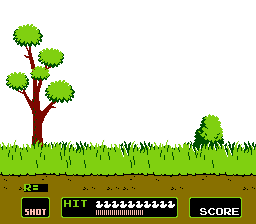
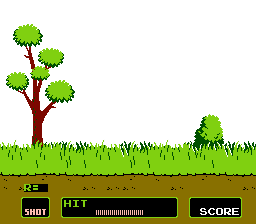
Added stuff

Changed region(s): [[0.375, 0.875, 0.6875, 0.9375]]

diff --git a/m2.py b/m2.py
@@ -32,7 +32,7 @@ shoot = pygame.mixer.Sound("gunShot.wav")
 class Game:
     def __init__(self):
         self.state = 0
-        self.roundNum = 1
+        self.roundNum = 0
         self.roundDiff = 1
 
 # Definir o jogo como uma classe
@@ -45,8 +45,6 @@ class Round:
         self.curFrame = 0
         self.dogpos = 800
         self.rScore = 0
-        self.ammo = 3
-        self.subrnd = 0
     
     def roundStart(self, dif, ducknum, gm):
         self.curFrame = 0
@@ -56,11 +54,10 @@ class Round:
         self.scene = []
         self.ducks = ducknum
         self.rScore = 0
-        self.ammo = 3
 
         self.dogpos = 800
 
-        #gm.roundNum += 1
+        gm.roundNum += 1
 
         #UwUUwUUwUUwUUwUUwUUwUUwUUwUUwUUwUUwUUwUUwUUwUUwUUwUUwUUwUUwUUwUUwUUwUUwUUwUUwUUwUUwUUwUUwUUwUUwU
         
@@ -73,12 +70,8 @@ class Round:
         #UwUUwUUwU
         val = True
         for i in self.scene:
-            if i.state != 1:
+            if i.state == 0:
                 val = False
-                print(self.subrnd)
-        
-        if self.ammo <= 0:
-            val = True
         
         if val == True:
             self.roundEnd()
@@ -86,30 +79,22 @@ class Round:
     def roundEnd(self):
         global score
         global win
-        global screen
-        global miniDDisplay
 
         if self.state != 2:
             self.curFrame = 0
             if self.rScore != 0:
                 win.play()
-                print(self.subrnd)
-                miniDDisplay[self.subrnd].state = 1
             else:
                 lose.play()
-            self.subrnd += 1
-            if self.subrnd >= 10:
-                gm.roundNum += 1
-                self.subrnd = 0
-        # print(self.dogpos, self.curFrame)
+        print(self.dogpos, self.curFrame)
 
         if self.rScore > 0:
             screen.blit(dog.image[0][0], (self.scene[-1].x, self.dogpos))
         else:
-            screen.blit(dog.image[1][0], (screen.get_width() / 2 - 100, self.dogpos))
+            screen.blit(dog.image[1][0], (90, self.dogpos))
 
         if self.curFrame <= 100:
-            # print("yes")
+            print("yes")
             if self.dogpos >= 580:
                 self.dogpos -= 5
             else:
@@ -156,7 +141,7 @@ class Object:
 
     def changeState(self, state):
         self.state = state
-        self.conta = 0
+
 
 def countdown(t): 
     t = 1
@@ -191,22 +176,16 @@ r1 = Round()
 duck1 = sprite(100, 100)
 duck1.load(["d11.png", "d12.png", "d13.png"])
 duck1.load(["d1Hit.png"])
-duck1.load(["d1s.png"])
+duck1.load(["d1Hit.png"])
 
 duck2 = sprite(100, 100)
 duck2.load(["d21.png", "d22.png", "d23.png"])
 duck2.load(["d2Hit.png"])
-duck2.load(["d2s.png"])
+duck2.load(["d2Hit.png"])
 
 duck3 = sprite(100, 100)
 duck3.load(["d31.png", "d32.png", "d33.png"])
 duck3.load(["d3Hit.png"])
-duck3.load(["d3s.png"])
-
-S = sprite(100, 100)
-S.load(["spam1.png", "spam2.png"])
-S.load(["spam1.png", "spam2.png"])
-S.load(["spam1.png", "spam2.png"])
 
 cursor = sprite(100, 100)
 cursor.load(["cursor.png"])
@@ -214,17 +193,6 @@ cursor.load(["cursor.png"])
 dog = sprite(200, 200)
 dog.load(["dog1.png"])
 dog.load(["dogL1.png", "dogL2.png"])
-
-miniD = sprite(30, 30)
-miniD.load(["miniD1.png"])
-miniD.load(["miniD2.png"])
-
-
-miniDDisplay = []
-
-for i in range(0, 10):
-    miniObj = Object(miniD.image, 0, 0, miniD.width, miniD.height, 10, 0)
-    miniDDisplay.append(miniObj)
 
 background1 = sprite(screen.get_width(), screen.get_height())
 background1.load(["back1.png"])
@@ -243,9 +211,9 @@ def spawnDuckie(scene):
     if special == 15:
         temp = Object(duck2.image, 0, 0, duck2.width, duck2.height, 10, 2)
     elif special == 14:
-        temp = Object(S.image, 0, 0, S.width, S.height, 10, 2)
+        temp = Object(duck2.image, 0, 0, duck2.width, duck2.height, 10, 2)
     elif special == 20:
-        temp = Object(duck3.image, 0, 0, duck3.width, duck3.height, 10, 3)
+        temp = Object(duck3.image, 0, 0, duck3.width, duck3.height, 10, 2)
     elif special == 19:
         temp = Object(duck3.image, 0, 0, duck3.width, duck3.height, 10, 2)
     elif special == 18:
@@ -307,7 +275,7 @@ def checkMouse():
                 if mousePos[0] > i.x and mousePos[0] < i.x + i.width:
                     if mousePos[1] > i.y and mousePos[1] < i.y + i.height:
                         # Matar o pato
-                        i.changeState(2)
+                        i.changeState(1)
                         # i.alive = False
                         if i.id == 2:
                             score += 2
@@ -331,15 +299,15 @@ res = 0
 def physicz():
     #UwU
     global r1
+    global patosm
     global res
 
     for i in r1.scene:
 #UwU
         if i.y  < 100:
             i.conta = 51
-        if i.y > 600:
+        if i.y > 1000:
             i.y = i.y - 3               
-        print(i.conta, i.y)
         
         if i.conta == 33:
             i.speed = randint(2, 3)
@@ -351,16 +319,19 @@ def physicz():
             # if i.id == 2:
 
             if i.conta > 50:
-                if i.id == 2:
-                    i.x += randint(6,7)
-                i.x += randint(3, 4)
-                if i.id == 3:
-                    i.x += randint(10,11)
-
-                if i.id == 1:
-                    i.y += randint (2, 3)
-                else:
-                    i.y += randint (2, 3)
+                if patosm > 0:
+                    if i.id == 2:
+                        i.x += randint(10,11)
+                    i.x += randint(3, 4)
+                    if i.id == 3:
+                         i.x += randint(16,17)
+                    if i.id == 1:
+                        i.y -= randint (2, 3)
+                    else:
+                        i.y += randint (2, 3)
+                        patosm = patosm +1
+                    if patosm == 40:
+                        patosm = 0
                     
                 if i.id == 2:
                     i.x += i.speed
@@ -372,11 +343,15 @@ def physicz():
                     i.x += i.speed
                     i.y += 3
             else:
-                i.x += randint(3, 4)
-                if a == 1:
-                    i.y -= randint (2, 3)
-                else:
-                    i.y += randint (2, 3)
+                if patosm > 0:
+                    i.x += randint(3, 4)
+                    if a == 1:
+                        i.y -= randint (2, 3)
+                    else:
+                        i.y += randint (2, 3)
+                        patosm = patosm +1
+                    if patosm >= 40:
+                        patosm = 0
                 if i.id == 2:
                     i.x += i.speed + 2
                     i.y -= 2
@@ -386,22 +361,53 @@ def physicz():
                 if i.id == 3:
                     i.x += i.speed + 4
                     i.y -= 4
+            if i.conta < 50:
+                if patosm > 0:
+                    if i.id == 2:
+                        i.x += randint(8,10)
+                    i.x += randint(3, 4)
+                    a = randint(1,2)
+                    if a == 1:
+                        i.y -= randint (2, 3)
+                    else:
+                        i.y += randint (2, 3)
+
+                if i.id == 2:
+                    i.x += i.speed + 2
+                    i.y -= 2
+                else:
+                    i.x += i.speed
+                    i.y -= 2
+                if i.id == 3:
+                    i.x += i.speed + 4
+                    i.y -= 4
+            # else:
+            #     if patosm > 0:
+            #         if i.id == 2:
+            #             i.x += randint(10, 11)
+            #         i.x += randint(3, 4)
+            #         a = randint(1,2)
+            #         if a == 1:
+            #             i.y -= randint (2, 3)
+            #         if a == 2:
+            #             i.y += randint (2, 3)
+            #         patosm = patosm +1
+            #     if patosm == 40:
+            #         patosm = 0
+            #     i.x += 2
+            #     i.y -= 1
             if i.conta == 100:
                 #print(i.conta)
                 i.conta = 0
 
             # if patosm >= 40:
             #     patosm = 0
-        elif i.state == 1:
-            i.y += 9
-        elif i.state == 2:
-            if i.conta >= 20:
-                i.changeState(1)
-        i.conta += 1
-        
+            i.conta += 1
+        else:
+            i.y += 6
         
         if i.x >= res.current_w:
-            i.changeState(1)
+            i.changeState(2)
 
 
 # Render function
@@ -440,7 +446,6 @@ def render(count):
         if i.alive == True:
             i.draw(screen)
 
-
     #screen.blit(background2.image[0][0], (0, 0))
 
     r1.roundCheck()
@@ -456,15 +461,8 @@ def render(count):
 
     screen.blit(roundTxt, (41 * 5, 184 * 5))
 
-    x = 450
-    ctemp = 1
-    for i in miniDDisplay:
-        screen.blit(i.image[i.state][0], (x + ctemp * 30, 1005))
-        ctemp+=1.3
-
     temp = (pygame.mouse.get_pos()[0] - cursor.width/2, pygame.mouse.get_pos()[1] - cursor.height/2)
     screen.blit(cursor.image[0][0], temp)
-
     pygame.display.flip()
 
 # Ralsei é o melhor (não, patos são, QUACKIESSSS :3)
